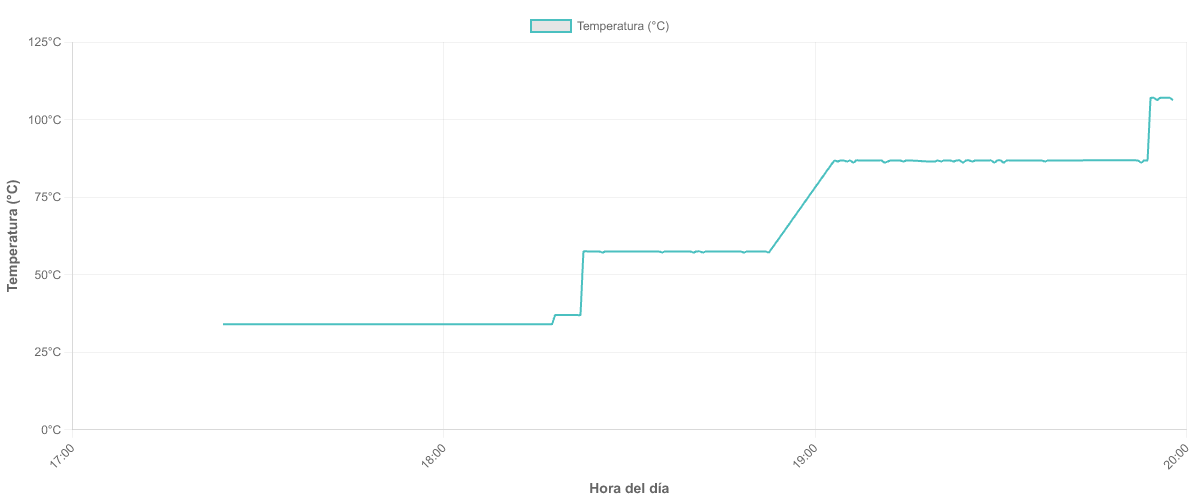
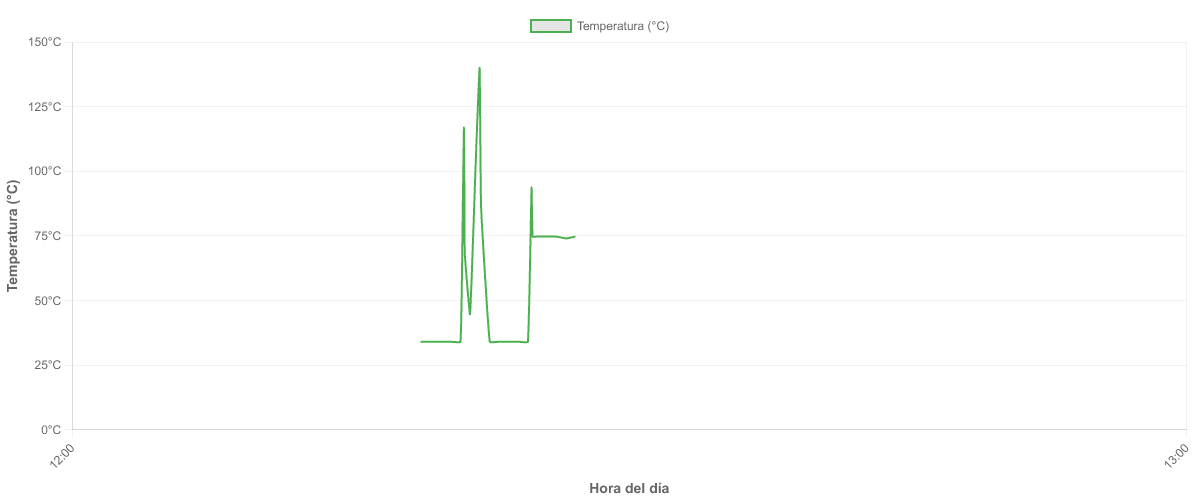
configuration to record engine status

diff --git a/src/modules/data/models/saveData.model.ts b/src/modules/data/models/saveData.model.ts
@@ -12,7 +12,16 @@ export const saveData = async (data: SensorDataParsed[]): Promise<void> => {
         data: {
           ...item.sampleData,
           ...(item.eventData && {
-            events: { create: item.eventData },
+            events: {
+              create: {
+                event: item.eventData.event,
+              },
+            },
+            motor_events: {
+              create: {
+                speed: item.eventData.motor_speed,
+              },
+            },
           }),
         },
       });
@@ -23,5 +32,7 @@ export const saveData = async (data: SensorDataParsed[]): Promise<void> => {
     if (error.code === 'P2003') throw new err.RecordDoesNotExists();
     if (error.code === 'P2002') throw new err.RecordAlreadyExists();
     throw error;
+  } finally {
+    await prisma.$disconnect();
   }
 };

diff --git a/src/modules/data/services/saveData.service.ts b/src/modules/data/services/saveData.service.ts
@@ -5,18 +5,19 @@ import type { SensorData, ServerResponse } from '../types';
 export const saveData = async (data: SensorData[]): Promise<ServerResponse> => {
   try {
     const sensorDataParsed = data.map((item) => {
-      const eventData = item.status
-        ? {
-            event: item.status,
-            id_sensors: item.id_sensors,
-          }
-        : null;
+      const eventData =
+        item.status && item.motor_speed
+          ? {
+              event: item.status,
+              motor_speed: item.motor_speed,
+            }
+          : null;
 
       return {
         sampleData: {
           voltage: item.voltage,
           temperature: item.temperature,
-          id_sensors: item.id_sensors,
+          id_sensor: item.id_sensor,
         },
         eventData,
       };

diff --git a/src/modules/telegram/helpers/generateGraph.helper.ts b/src/modules/telegram/helpers/generateGraph.helper.ts
@@ -36,11 +36,11 @@ export const generateGraph = async () => {
   try {
     const datos = await getDataByDate(
       {
-        day: 19,
+        day: 26,
         month: 6,
         year: 2025,
       },
-      '046295c5-4808-47a9-88ac-2e86cc688b5c',
+      '593740d7-5284-4226-abe9-b19c42dce662',
     );
 
     // Calcular valores para el eje Y
@@ -79,7 +79,7 @@ export const generateGraph = async () => {
               x: new Date(d.date).getTime(),
               y: d.temperature,
             })),
-            borderColor: 'rgba(75, 192, 192, 1)',
+            borderColor: '#4CAF50',
             borderWidth: 2,
             fill: false,
             tension: 0.1,

diff --git a/src/modules/data/schemas/saveData.schema.ts b/src/modules/data/schemas/saveData.schema.ts
@@ -1,10 +1,11 @@
 import z from 'zod';
 
 const sensorData = z.object({
-  id_sensors: z.string(),
+  id_sensor: z.string(),
   voltage: z.number(),
   temperature: z.number().min(-100).max(200),
   status: z.enum(['normal', 'preventive', 'emergency']).optional(),
+  motor_speed: z.enum(['off', 'normal', 'high']).optional(),
 });
 
 export const sensorDataArray = z.array(sensorData);

diff --git a/src/modules/data/types/SensorDataParsed.type.ts b/src/modules/data/types/SensorDataParsed.type.ts
@@ -1,9 +1,7 @@
-import { event_type } from '@prisma/client';
-
 export interface SensorDataParsed {
-  sampleData: { voltage: number; temperature: number; id_sensors: string };
+  sampleData: { voltage: number; temperature: number; id_sensor: string };
   eventData: {
-    event: event_type;
-    id_sensors: string;
+    event: string;
+    motor_speed: string;
   } | null;
 }

diff --git a/src/modules/data/types/SensorData.type.ts b/src/modules/data/types/SensorData.type.ts
@@ -1,6 +1,7 @@
 export interface SensorData {
-  id_sensors: string;
+  id_sensor: string;
   voltage: number;
   temperature: number;
   status?: 'normal' | 'preventive' | 'emergency';
+  motor_speed?: 'off' | 'normal' | 'high';
 }
